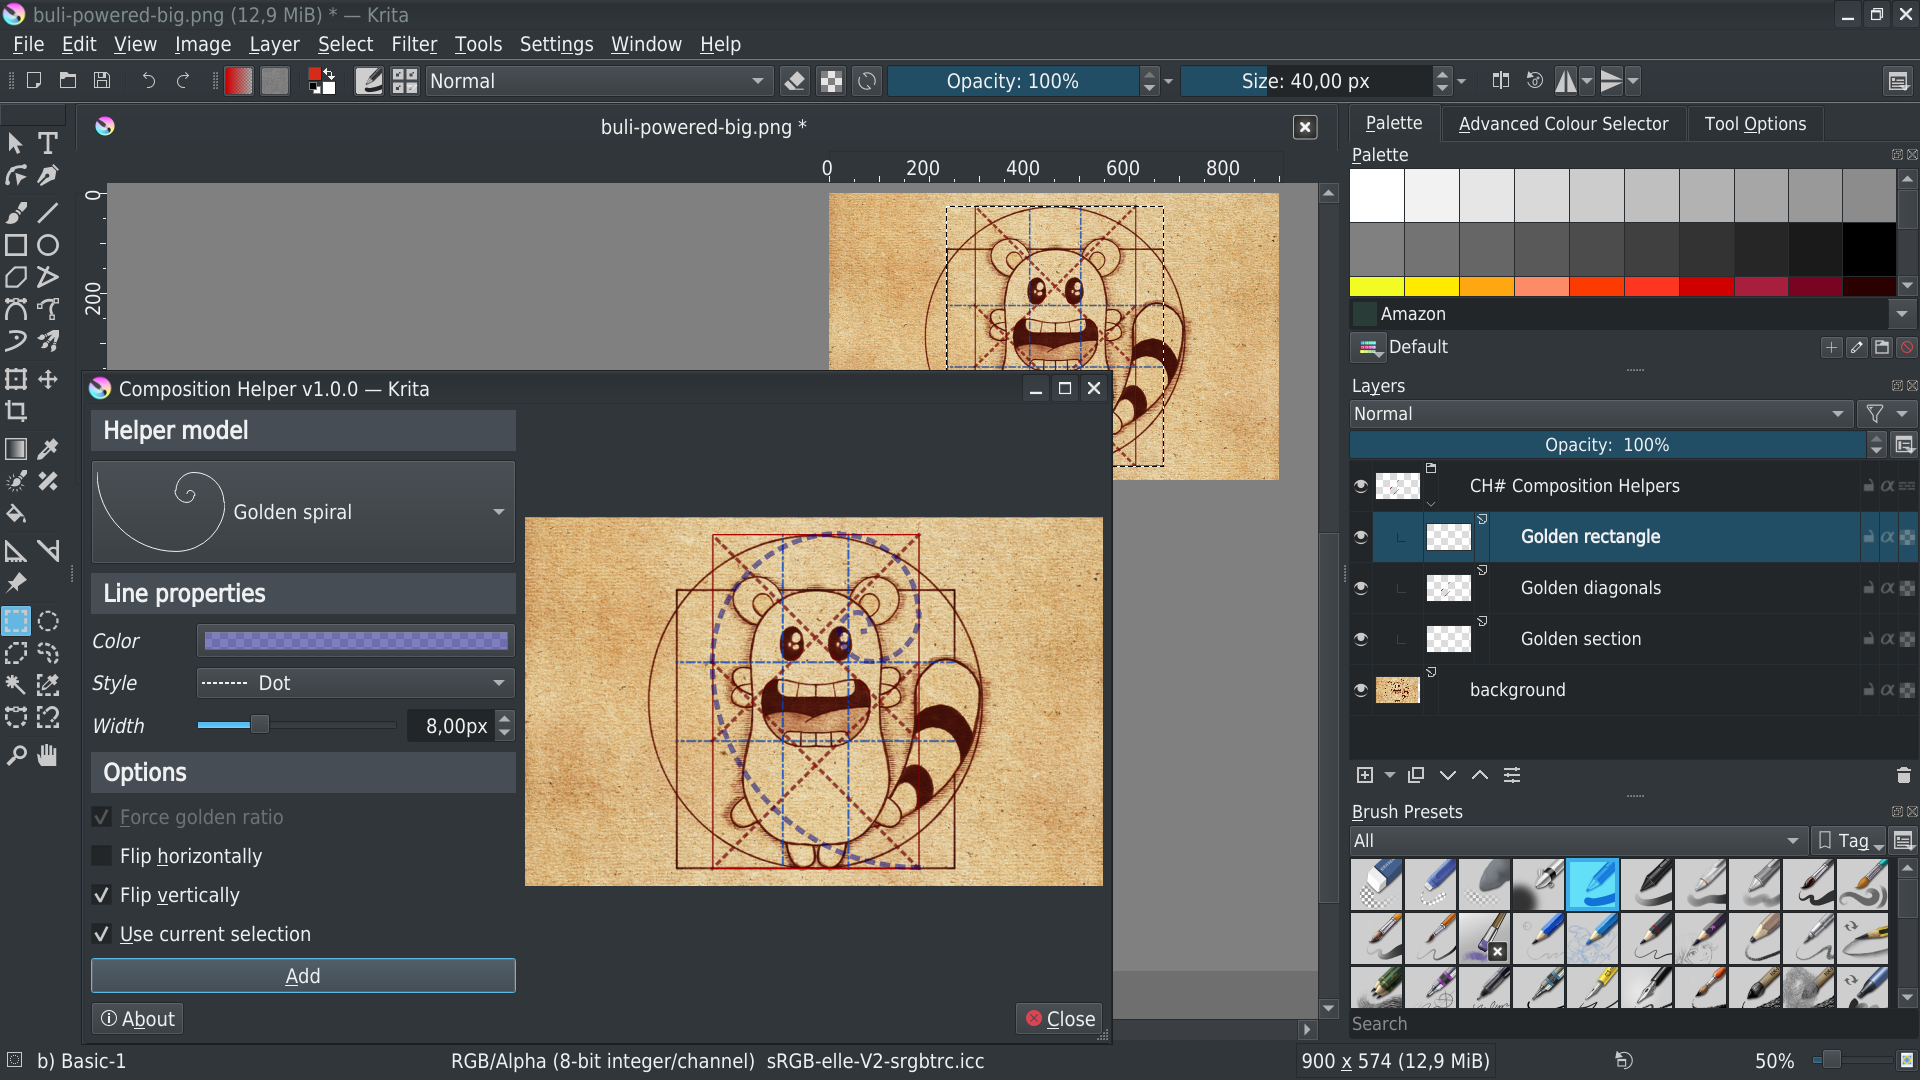
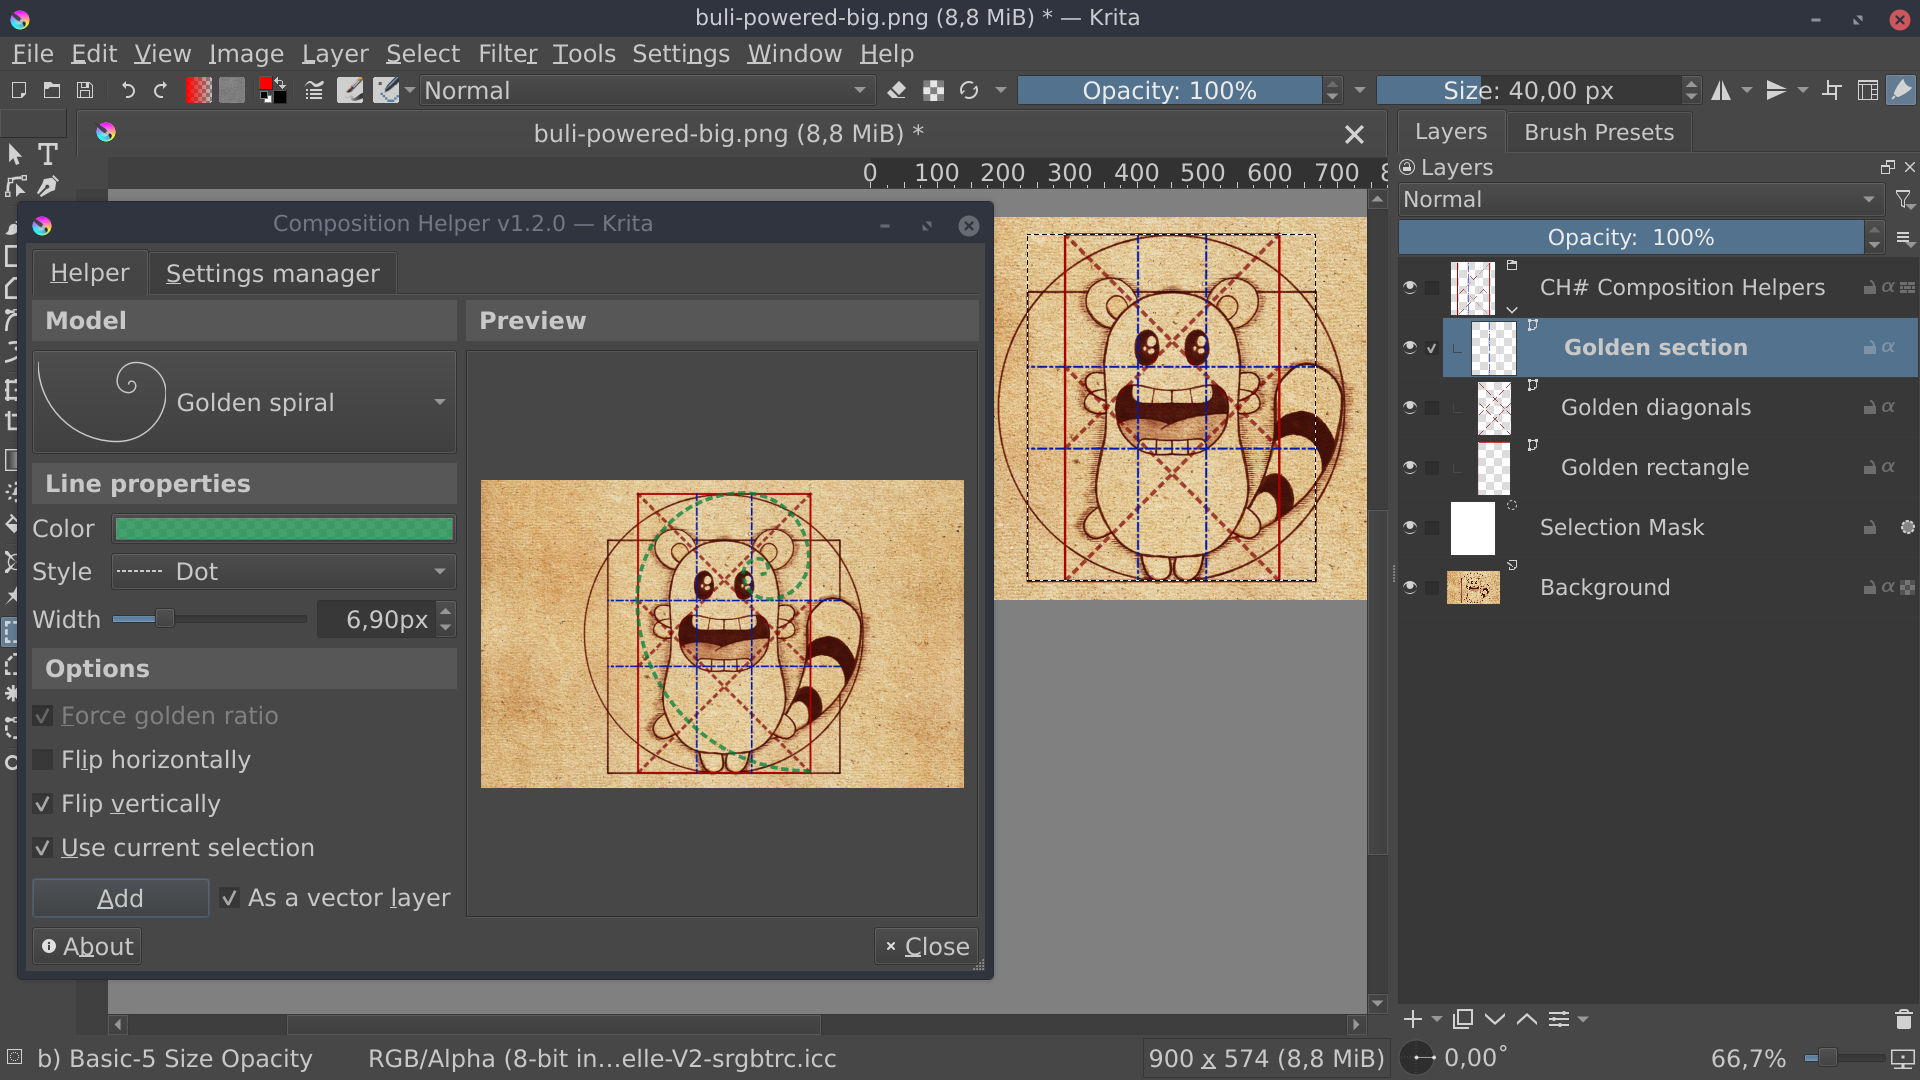
Release 1.2.0
. Update README
. Update release note
. Update screenshots

diff --git a/releases-notes/RELEASE-1.2.0.md b/releases-notes/RELEASE-1.2.0.md
@@ -1,31 +1,33 @@
-# Composition Helper :: Release 1.2.0 [2023-06-10]
+# Composition Helper :: Release 1.2.0 [2024-04-13]
 
-## Improvements
+# Main Interface
 
-### New helpers
-[Feature request #4](https://github.com/Grum999/CompositionHelper/issues/4)
+## Implement *New Helpers*
 
-Some additional helpers added to current list:
+Some additional *Helpers* have been added to current list:
 - Quarters
 - Diamond
 - Dynamic symmetry (rules of thirds & golden sections)
 - Reciprocal lines (rules of thirds & golden sections)
 
 _Quarters & Diamond_
+
 ![Diamond & Quarters helpers](./../screenshots/r1-2-0_helpers1.png)
 
-_Dynamic Symmetry based from **Rules of thirds** & **Golden sections**_
+_Dynamic Symmetry based from **Rules of thirds** (Green example) & **Golden sections** (Pink example)_
+
 ![Dynamic Symmetry helpers](./../screenshots/r1-2-0_helpers2.png)
 
-_Reciprocal lines based from **Rules of thirds** & **Golden sections**_
+_Reciprocal lines based from **Rules of thirds** (Green example) & **Golden sections** (Pink example)_
+
 ![Reciprocal lines helpers](./../screenshots/r1-2-0_helpers3.png)
 
+[Feature request #4](https://github.com/Grum999/CompositionHelper/issues/4)
 
-### Menu access
-[Feature request #5](https://github.com/Grum999/CompositionHelper/issues/5)
+## Implement *Menu access*
 
 Menu to open *Composition Helper* plugin has been moved into *Tools* menu, and:
-- An icon has been added (note: on Windows all icons menu are hidden by a hardcoded Krita's rule)
+- An icon has been added
 - Menu is enabled/disabled according to active document availability
 - In Krita's shortcuts settings, it's now possible to define a shortcut for menu
 
@@ -33,5 +35,34 @@ _Menu with icon_
 
 ![Menu with icon](./../screenshots/r1-2-0_menu.png)
 
+> Note:
+> For Windows users, icons menu are hidden by a hardcoded Krita's rule.
+> Icon won't be visible unless menu icons are activated in Windows (possible with some UI tweak...).
+
+[Feature request #5](https://github.com/Grum999/CompositionHelper/issues/5)
 
 
+## Implement *Settings manager*
+
+The *Settings manager* allows to save different *Helper* setup, organize and reuse them.
+
+![Settings manager](./../screenshots/r1-2-0_setup_manager-main.png)
+
+| Reference | Description                                                                                                                                                                                                                            |
+|-----------|----------------------------------------------------------------------------------------------------------------------------------------------------------------------------------------------------------------------------------------|
+| 1         | **Manage settings import/export**<br>- New setting pool<br>- Import a setting pool<br>- Export settings pool<br><br>This can be useful to manage backup files or easily use the same settings across different computers               |
+| 2         | **Manage settings**<br>- Create a new setup from current *Helper* setup<br>- Create a new folder<br>- Edit selected item<br>- Delete selected item                                                                                     |
+| 3         | **Load selected *Helper* setup**<br>Setup will be load and replace current *Helper* setup                                                                                                                                              |
+| 4         | Pool settings<br>- Drag'n'Drop to reorganise items<br>- Double-click on item (column *Setup*) to expand/collapse folder or to load *Helper* setup<br>- Double-click on item (column *Description*) to edit folder or to apply *Helper* |
+| 5         | Current settings pool file                                                                                                                                                                                                             |
+
+
+[Feature request #7](https://github.com/Grum999/CompositionHelper/issues/7)
+
+
+## Fix bug
+
+### Update preview
+[Bug fix #6](https://github.com/Grum999/CompositionHelper/issues/6)
+
+When a *Helper* is added, preview is updated to reflect document.

diff --git a/README.md b/README.md
@@ -26,7 +26,7 @@ Here a list of some functionalities:
 - Choice of line style, color, width
 - Preview
 
-![Export file list](./screenshots/r1-0-0_main_example.png)
+![Export file list](./screenshots/r1-2-0_main_example.png)
 
 As *Composition Helper* plugin use native [Krita](https://krita.org) layers, many differents helpers can be added and then, easily managed (deletion, visiblity, opacity...)
 
@@ -58,15 +58,17 @@ When you want to execute *Composition Helper*, simply go to **Tools** and select
 
 
 ### Tested platforms
-Plugin has been tested with Krita 5.2.0 (appimage)
+Plugin has been tested with Krita 5.2.2 (Linux Appimage, Windows 10)
 
 
 ## Plugin's life
 
 ### What's new?
-_[2023-06-09] Version 1.2.0_
-- Implement - *New helpers*
+_[2024-04-13] Version 1.2.0_
+- Implement - *New Helpers*
 - Implement - *Menu access*
+- Implement - *Settings manager
+- Fix bug - *Update preview*
 
 _[2023-05-09] Version 1.1.3_
 - Fix bug *Krita 5.2.0 Compatibility*
